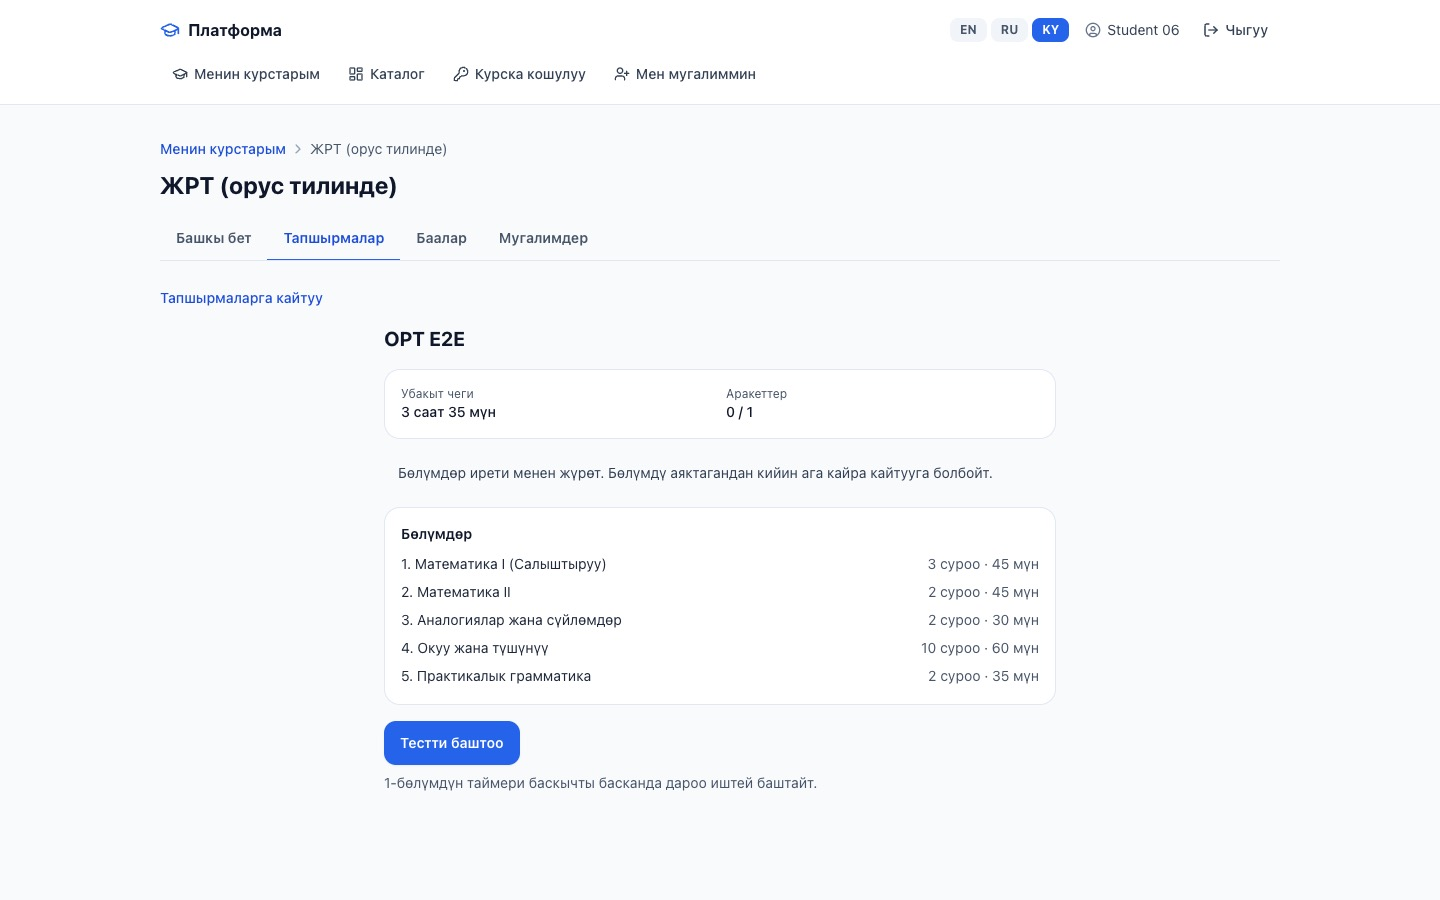
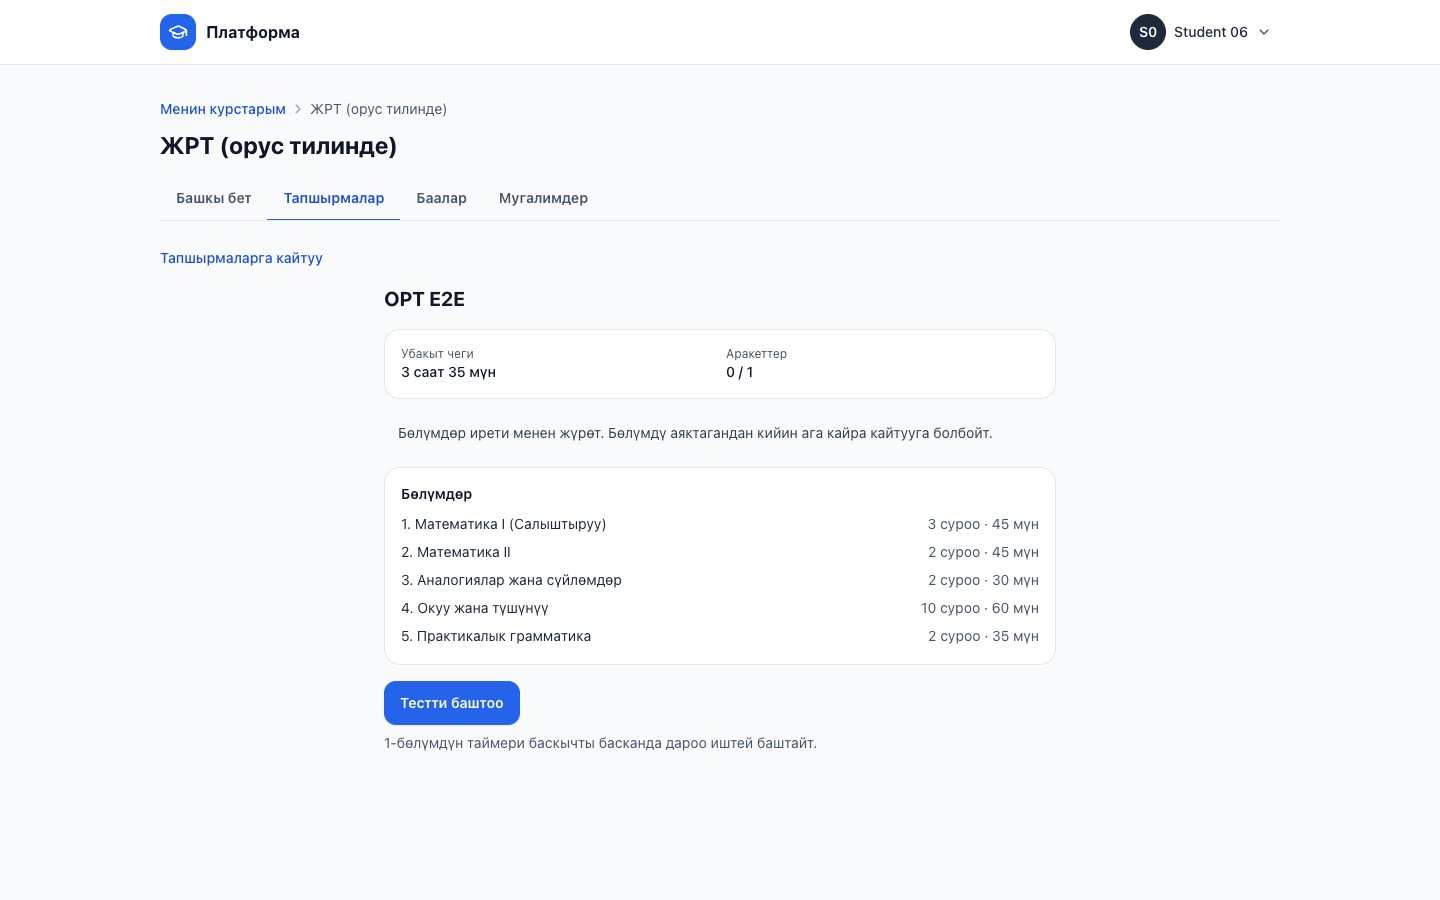
Phase 6b S7b: baselines on top of phase-6b (S5b header, S5c teaching screens), e2e locators follow S5c markup, glossary

diff --git a/frontend/e2e/ort-visual.spec.ts b/frontend/e2e/ort-visual.spec.ts
@@ -146,12 +146,15 @@ for (const vp of VIEWPORT_NAMES) {
       const validate = page.getByRole("button", { name: tr(lang, "assessments.publish.validate") });
       await validate.click();
       await expect(page.getByText(tr(lang, "assessments.publish.valid"))).toBeVisible();
-      const panel = validate.locator("xpath=ancestor::div[contains(@class,'rounded-2xl')][1]");
+      // the panel is a labelled region since 6b S5c
+      const panel = page.getByRole("region", { name: tr(lang, "teaching.publishPanel") });
+      await expect(panel).toContainText(tr(lang, "assessments.publish.valid"));
       await shot("publish", { element: panel });
 
       // staff attempts: the seeded submitted attempt (dates masked)
       await open(`${c}/assessments/${s.staff_exam.id}/attempts`);
-      await expect(page.getByText(s.students["staff-seed"].name).first()).toBeVisible();
+      // the Table renders a stacked-card copy for phones (hidden on desktop) since 6b S5c: take the visible one
+      await expect(page.getByText(s.students["staff-seed"].name).filter({ visible: true }).first()).toBeVisible();
       await shot("attempts", { mask: [page.locator("time"), page.getByText(/\d{1,2}[./]\d{1,2}[./]\d{2,4}|\d{1,2}:\d{2}/)] });
     });
   });

diff --git a/docs/phases/PHASE_6_screens/6b/INDEX.md b/docs/phases/PHASE_6_screens/6b/INDEX.md
@@ -390,7 +390,7 @@ passage lines, result card with five section rows).
 
 | Files (`ort-<screen>-<viewport>-<lang>-{before,after}.jpg`) | What changed | Part 1 IDs |
 |---|---|---|
-| `ort-lobby-{phone,desktop}-{ru,ky}` | "Start test" button with the hint "the section 1 timer starts at once" under it; on phones the start row is sticky at the bottom of the screen (in the full-page shot it floats over the middle, where the 812 px viewport ends); attempts value "0 из 1" without the repeated word; section rows as a two-column grid with the meta on one line; empty "available from / until" rows hidden and the total time as "3 h 35 min" (S9, left to S7b by S6b); the page frame (course header, breadcrumbs) is S6b's | L1, L2, L3, S9 |
+| `ort-lobby-{phone,desktop}-{ru,ky}` | "Start test" button with the hint "the section 1 timer starts at once" under it; on phones the start row is sticky at the bottom of the screen (in the full-page shot it floats over the middle, where the 812 px viewport ends); attempts value "0 из 1" without the repeated word; section rows as a two-column grid with the meta on one line; empty "available from / until" rows hidden and the total time as "3 h 35 min" (S9, left to S7b by S6b); not from S7b: the new `AppHeader` (S5b) and the student course frame with breadcrumbs (S6b) | L1, L2, L3, S9 |
 | `ort-comparison-{phone,desktop}-{ru,ky}` | Sans-serif stem and choices (one family); 44 px answer rows and flag button on phones; timer label "Left in section" on desktop; phones: "Questions 1/3" button in the header opens the palette sheet, the palette and the outline finish button are no longer below the question; design-system Prev/Next buttons | P1, P3, P4, P7 |
 | `ort-flagged-palette-{phone,desktop}-{ru,ky}` | Additive palette states: green fill = answered, grey = not, ring = current, amber dot = flagged (also on the current question); legend shows the dot, 12 px text; phones: the palette is the bottom sheet (focus trap, Esc, finish action inside), 44 px buttons; amber dot on the header button when something is flagged | P1, P2, P3, cross-cutting (legend size) |
 | `ort-section-end-{phone,desktop}-{ru,ky}` | Phase 6 `Dialog` (focus trap, Esc, focus return); confirm says "Finish section" like the button that opened it; red only for the no-return sentence, counts neutral; full-width stacked buttons on phones | P5, cross-cutting (colors, components) |
@@ -398,6 +398,7 @@ passage lines, result card with five section rows).
 | `ort-submit-{phone,desktop}-{ru,ky}` | Same `Dialog` treatment as the section-end dialog; the "cannot change answers" sentence in red | P5, cross-cutting |
 | `ort-result-{phone,desktop}-{ru,ky}` | "Test finished. Your result:" line; scaled grade card first, raw points as a small line under it; "Counts toward your grade" / "Points" instead of jargon; `Badge` components; section table without a minimum width (nothing cut at 375 px), short "Scale" header on phones, percentile on its own line in the total row | R1, R2, R3, B4 |
 | `ort-review-{phone,desktop}-{ru,ky}` | Review grouped by section (folding groups, all open, "1 of 3 correct" per section) and an "Only mistakes and unanswered" filter (off by default); every card unchanged in content; sans-serif text; correctness `Badge` with an icon | R4, P7, cross-cutting |
+| `ort-teacher-{bank,question-comparison,passage,import,builder,publish,attempts}-{phone,desktop}-ru` | **No S7b change.** The teacher baselines were re-recorded on top of phase-6b: new `AppHeader` and area shell (S5b) and the teaching screens on the design system (S5c: breadcrumbs, `PageHeader`, publish panel as a labelled region, `Table` with stacked cards). Two S7a locators followed S5c's markup (publish panel by its region name; the visible copy of the student name in the attempts `Table`); the assertions are the same | (S5b, S5c) |
 
 Not in a baseline: the loading skeleton of the player and of a section (P11), the save pill texts (P10), keyboard
 shortcuts with `e.code` (P9), the timer's warning icon and bold digits under five minutes (P4). The phone result
